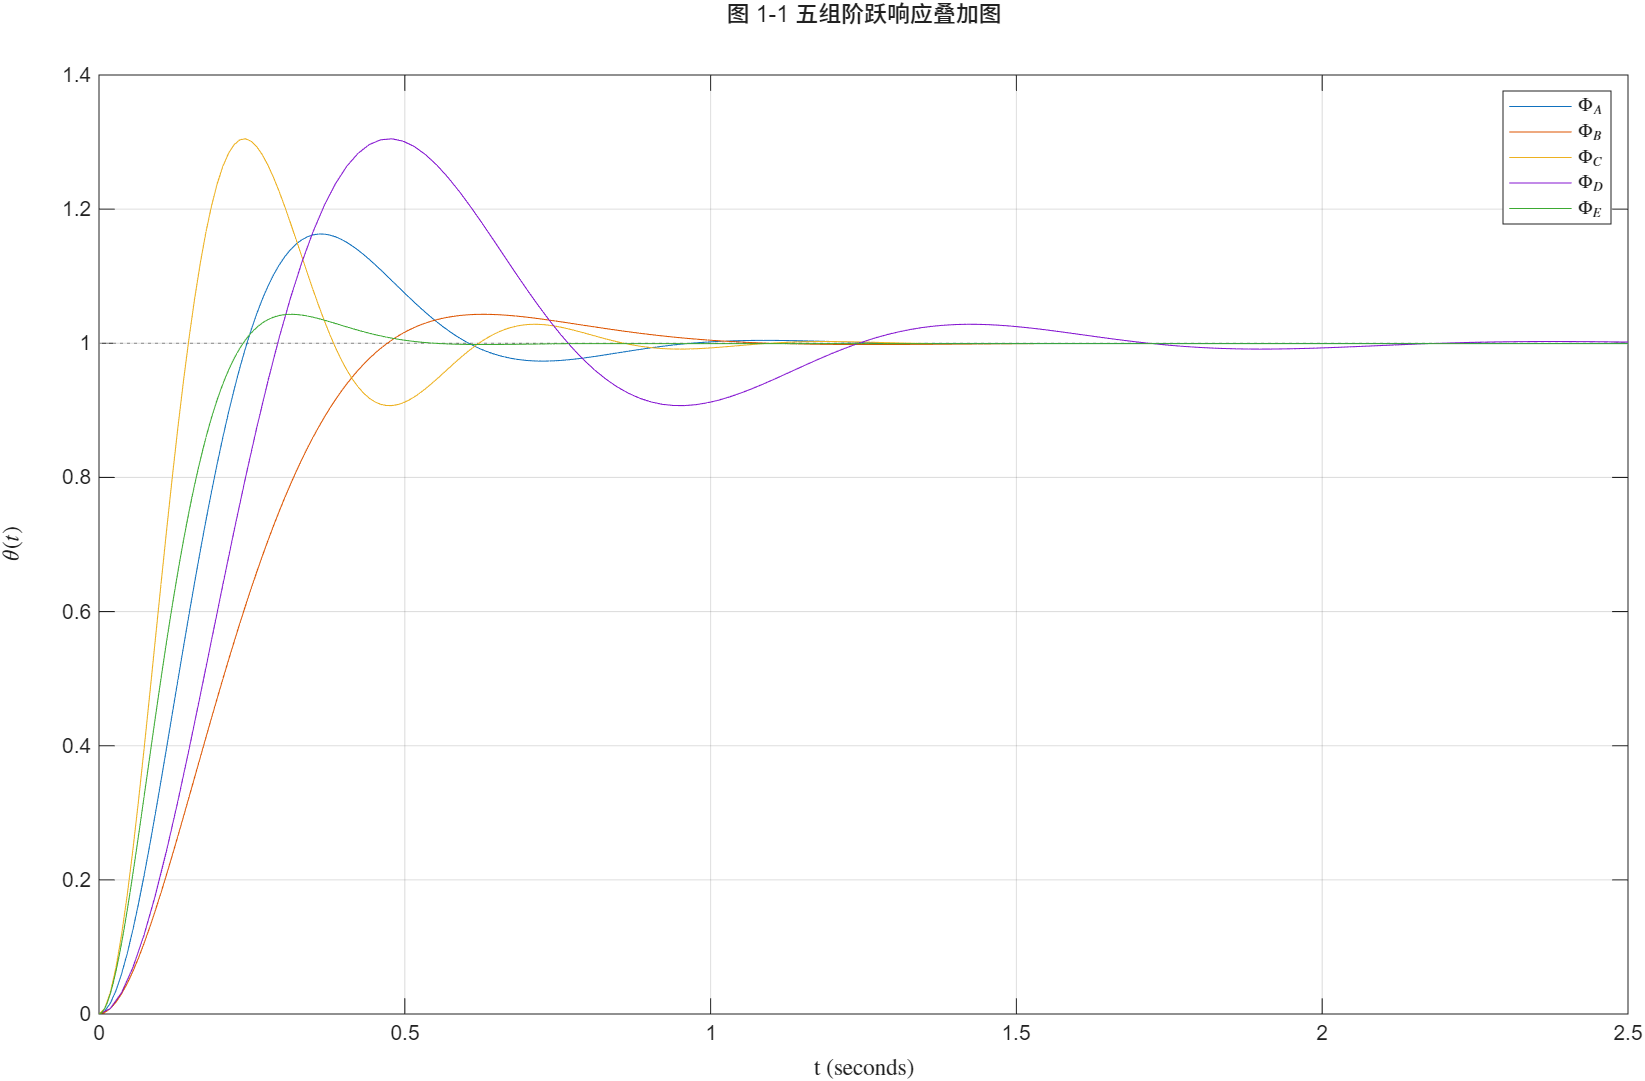
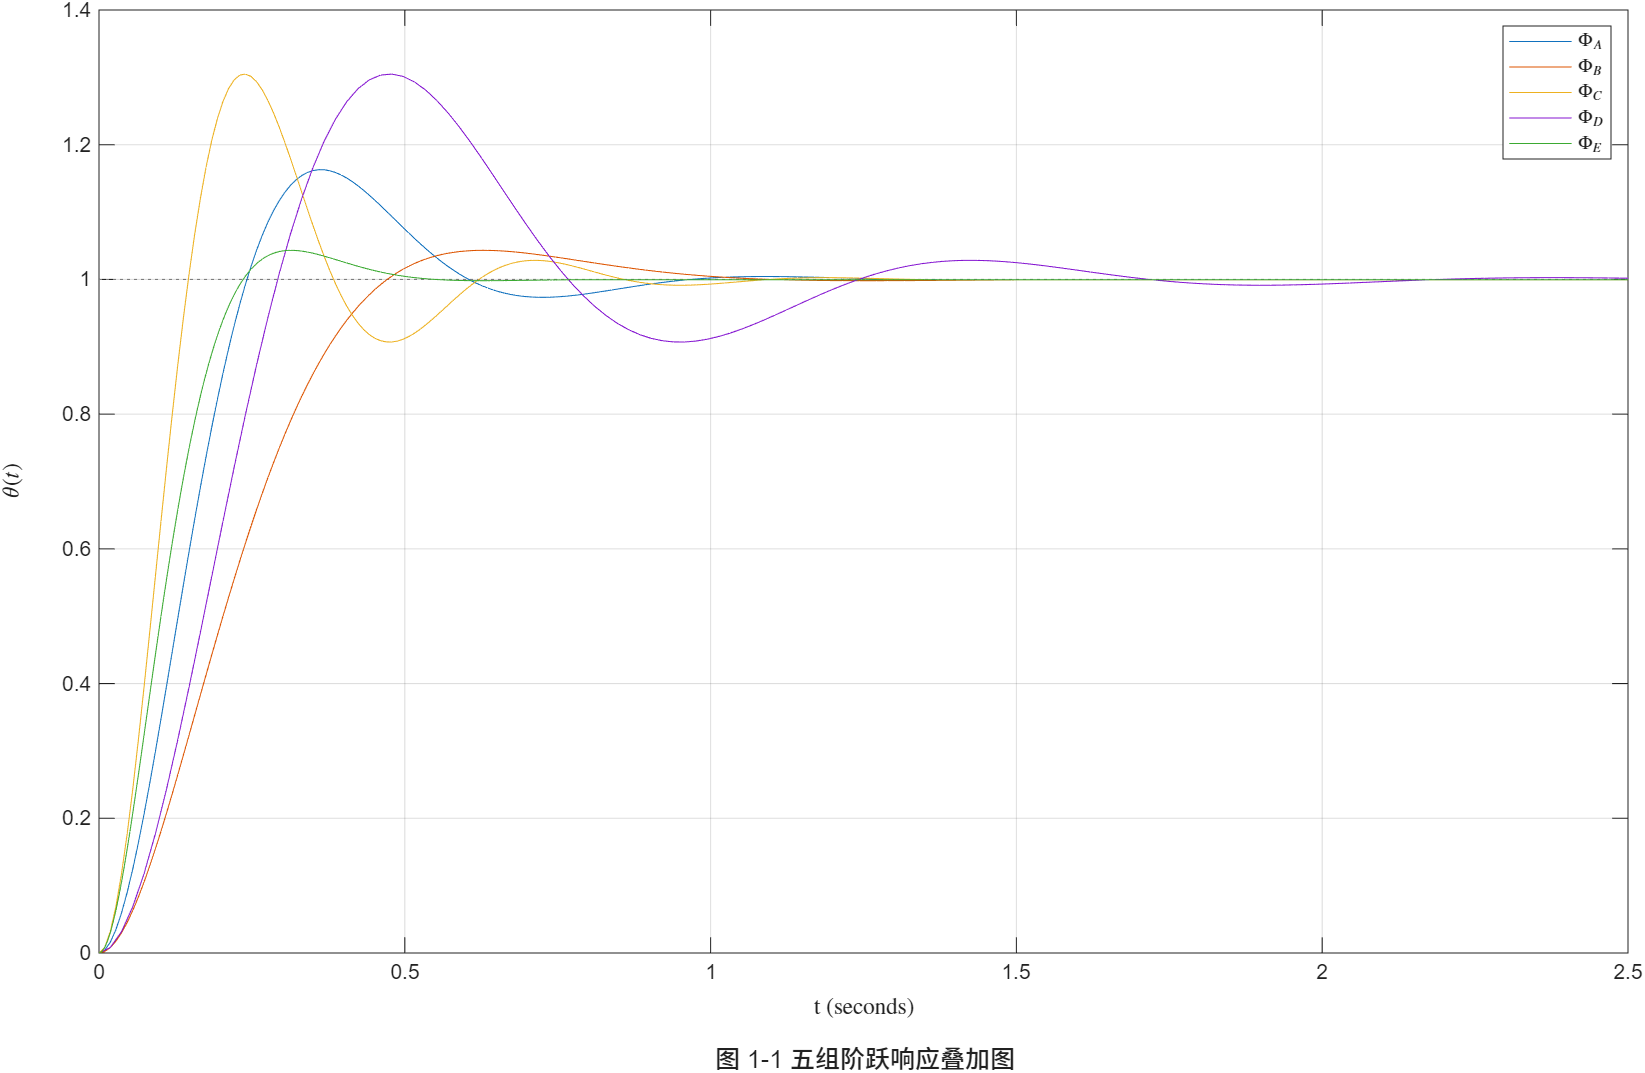
FIX: figure caption under picture

diff --git a/task1_1.m b/task1_1.m
@@ -31,7 +31,12 @@ Phi_e = feedback(G_e, 1);
 
 figure();
 step(Phi_a, Phi_b, Phi_c, Phi_d, Phi_e);
-title("图 1-1 五组阶跃响应叠加图");
+title("");
+text(0.5, -0.1, '图 1-1 五组阶跃响应叠加图', ...
+    'Units', 'normalized', ...
+    'HorizontalAlignment', 'center', ...
+    'VerticalAlignment', 'top', ...
+    'FontSize', 12);
 grid on;
 xlabel("t", "Interpreter", "latex");
 ylabel("$\theta(t)$", "Interpreter", "latex");

diff --git a/REPORT.md b/REPORT.md
@@ -42,4 +42,7 @@ $$
 
 在 Matlab 中绘制单位阶跃响应叠加图，不必直接计算开环传递函数 $L(s)$ 和闭环传递函数 $\Phi(s)$，这里使用 `tf()` 创建传递函数模型对应 $L(s)$，使用 `feedback()` 添加单位负反馈，组成闭环传递函数 $\Phi(s)$：
 
-![alt text](figures/F1-1.png)
+![图 1-1 五组阶跃响应叠加图](figures/F1-1.png)
+
+### 1.2
+
